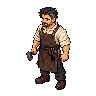
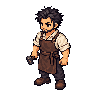
[art] 대장장이와 직장인의 머리·몸 비율을 기존 NPC에 맞춤
기존 NPC와 전체 높이는 같지만 머리/몸 비율이 달랐던 두 정지 그림을 보정. 기존 코르빈 체형 참조, 내장 imagegen2회 및 허용 Python 정리. 기존 원본13장/다른24PNG/머리합성9 SHA 보존.

검증: Godot4.7.1 격리 import2회 ERROR0, 전체875 로드실패0(기존 NUL4), GPU13385 실패0/SCRIPT ERROR0. 기존 성인3명과 실제 발/표시높이 및 이미지 체형 비교. 에셋FAIL0 WARN28(기존), docs_check0. 경제 하루27.0명/평균228 유지.

Changed region(s): [[0.25, 0.0625, 0.75, 0.9375]]

diff --git a/docs/그림_작업/받은그림/상태와_인물/픽셀_정리.py b/docs/그림_작업/받은그림/상태와_인물/픽셀_정리.py
@@ -83,8 +83,10 @@ REPORT['berry_pixels']=berry_pixels
 assert ready.getchannel('A').tobytes()==bush.getchannel('A').tobytes()
 
 actors = {}
-def actor_image(key, identity=None, kind='', back=False):
-    src=HERE/'생성_원본'/('actor_'+key+'.png')
+def actor_image(key, identity=None, kind='', back=False, corrected=True):
+    # 서 있는 신규 인물은 기존 NPC와 머리/몸 비율을 맞춘 선택본을 사용한다.
+    suffix='_proportions' if corrected and key in ['blacksmith','commuter'] else ''
+    src=HERE/'생성_원본'/('actor_'+key+suffix+'.png')
     image=Image.open(src).convert('RGBA')
     mask=image.getchannel('A').point(lambda a:255 if a>=220 else 0)
     image=image.crop(mask.getbbox())
@@ -126,6 +128,8 @@ for identity in ['blacksmith','commuter']:
     image=actor_image(identity)
     row=save(image,identity,'art/actors/poses/'+identity+'_south_west.png')
     actors[identity]={**row,'feet':[48,90],'direction':'south-west','reference_height':84,'display_height':1.14*.8660254,'pose':'standing'}
+    source=HERE/'생성_원본'/('actor_'+identity+'_proportions.png')
+    REPORT.setdefault('standing_proportions',[]).append({'id':identity,'bounds':list(image.getbbox()),'source':str(source.relative_to(HERE)).replace('\\','/'),'source_sha256':sha(source),'reference':'art/actors/npc/doyun/south_west.png','reference_sha256':sha(ROOT/'art/actors/npc/doyun/south_west.png')})
 
 for identity in ['player_male','player_female','doyun','naru','sora']:
     variants=[('seat',False)]
@@ -156,4 +160,20 @@ for index,row in enumerate(cards):
     label=row['id'].replace('_south_','\nsouth_').replace('_north_','\nnorth_')
     draw.multiline_text((index%4*224+8,index//4*320+276),label,font=font,fill=(240,220,190))
 sheet.save(HERE/'게임용_목록.png')
+
+# 같은 발 기준선에 기존 성인3명과 두 인물의 이전/보정 그림을 놓는다.
+# 캔버스/전체 높이 검사만으로는 얼굴 크기와 몸 비율의 차이를 잡을 수 없다.
+comparison=Image.new('RGB',(1000,690),(55,48,41))
+draw=ImageDraw.Draw(comparison)
+for index,name in enumerate(['doyun','naru','sora','blacksmith','commuter']):
+    is_new=name in ['blacksmith','commuter']
+    path=ROOT/('art/actors/poses/'+name+'_south_west.png' if is_new else 'art/actors/npc/'+name+'/south_west.png')
+    selected=Image.open(path).convert('RGBA')
+    prior=actor_image(name,corrected=False) if is_new else selected
+    for y,image,label in [(70,prior,'이전' if is_new else '기존'),(370,selected,'적용')]:
+        enlarged=image.resize((192,192),Image.Resampling.NEAREST)
+        comparison.paste(enlarged,(index*200,y),enlarged)
+        draw.text((index*200+8,y+215),name+' '+label,font=font,fill='white')
+for y in [250,550]: draw.line((0,y,1000,y),fill=(150,135,110))
+comparison.save(HERE/'비율_비교.png')
 print(f"runtime {len(cards)} PNG, preserved heads {len(REPORT['preserved_heads'])}, berry overlay {len(berry_pixels)} pixels")

diff --git a/docs/그림_작업/받은그림/상태와_인물/게임_연결.md b/docs/그림_작업/받은그림/상태와_인물/게임_연결.md
@@ -47,3 +47,14 @@ Godot4.7.1, 별도 가져오기 프로젝트·APPDATA에서 검사.
 ## 이후 남는 범위
 
 우물·낮은 담장의 기존 외형을 투명2D로 전환하는 작업, 남은 주민/손님의 좌식 및 새 개인 NPC 방향/걷기, 원정 몬스터·채집물/낚시 아이콘 후보 연결은 [남은 그림](../../마을_그림_연결/남은_그림.md) 참고. 이번 작업은 애니메이션 추가가 아니다.
+
+## 대장장이·직장인 비율 보정 (2026-10-11)
+
+사용자 지적으로 다시 비교했다. 이전 검사는 표시 경로·전체 높이·조명을 확인했지만 다른 NPC와 머리/몸 비율을 나란히 검토하지 못했다. 두 인물은 전체 키가 비슷해도 머리가 작고 다리가 길어 기존 개인 NPC와 외형 크기가 다르게 보였다.
+
+- 기존 코르빈(`doyun`)을 엄격한 체형/도트 밀도 기준으로 삼아 두 인물의 큰 머리·짧은 다리·작은 몸 비율을 보정했다. 망치/가죽 앞치마, 현대 재킷/서류 가방은 유지한다. 내장 `imagegen` 편집2회 후 허용된 Python 최근접 픽셀 정리로 기존 실행 경로의 PNG2장을 교체했다. 종횡비를 균일하게 유지하며 렌더러 높이를 늘이거나 줄이는 방식으로 체형을 고치지 않았다.
+- [이전/보정 비교](비율_비교.png)는 기존 NPC3명과 두 인물을 같은 발 기준선에 배치한다. 아래 행이 선택본이다. 96×96 캔버스, 실제 불투명 높이84px, 발(48,90), 기존 성인 렌더 높이를 공유한다. 몸폭은 직장인40px, 대장장이45px이며 앞치마·팔·가방 등 소품 차이를 포함한다.
+- 이전 생성 원본13장은 보존하고 `생성_원본/actor_blacksmith_proportions.png`, `actor_commuter_proportions.png`를 추가했다. 정확한 프롬프트·참조 경로/생성 시점 SHA·출처는 [생성 기록의 proportion_correction](생성_기록.json)에 있다. [픽셀 정리](픽셀_정리.py)를 재실행하면 같은 선택본·비교표가 재현된다.
+- 다른 실행 그림24장 및 좌식 원본 얼굴 합성9영역 SHA는 보정 전과 같다. 기존 개인 NPC10명, 공용 손님/직원/주인공 걷기 그림도 유지한다.
+- [실제 게임 비교](실행_확인/costumes.png)는 왼쪽부터 코르빈·타블렌·(기존 주인공)·이세르·대장장이·직장인이다. 기존 성인3명과 신규2명의 실제 Quad 높이 차이0.01 미만, 발 기준선 오차0.0001 미만을 검사하고 체형은 이미지로 확인했다. 조명12시/HUD6시 고정의 격리 검사 화면이다.
+- 최종 Godot4.7.1 가져오기2회 ERROR0, 전체875개 로드 실패0(기존 NUL 경고4), GPU13385 검사 실패0/SCRIPT ERROR0. 에셋 FAIL0/WARN28(기존), 경제 기준 하루27.0명·평균객단가228 유지. 이번 수정은 PNG2장·그림 메타/재현/비교 검사이며 게임 진행과 저장 구조는 변경하지 않았다.

diff --git a/.revvy/shared-memory.md b/.revvy/shared-memory.md
@@ -124,3 +124,5 @@ off.
 - 2026-10-11 Codex: 우물/낮은 담장 기존 외형 재확인. docs/그림_작업/틀/{village_well,low_wall}__preview.png에 288×288 모델 렌더 있음(잔디/지면 그림자 포함, 알파255). 삭제에서 복구한 동일 이름 PNG는2색 자리표라 별개. 미제작으로 단정하지 말고 기존 외형의 투명2D 전환 미완료로 분류. 받은그림·Git 외에도 틀/시트/모델을 대조한다. 목록/인수인계45 정정; 실행/지도 변경 없음.
 
 - 2026-10-11 Codex: 상태/인물26PNG 연결(단풍4·덤불2·대장장이/직장인2·남녀좌식12·쉼터주민3좌식6). NatureStateArt/ActorPoseArt, 머리9 원본합성·나무 실루엣/줄기보존; 기존8방향걷기유지. VillageRestPose는 대화동안만 벤치좌식·중단/완료/퇴장때위치/메타/물리복원·반전지원. 프롤로그 seat/floor 구분. 덤불ready/empty표시만연결, 직접수확/재생후속. GPU13375/공용1809/NPC164/프롤로그37/쉼터52/복구617/로드875 실패0·에셋FAIL0 WARN28. docs/그림_작업/받은그림/상태와_인물/게임_연결.md.
+
+- 2026-10-11 Codex: 사용자 대장장이/현대직장인 크기 지적→전체키보다 머리/몸 비율 차이 확인. 코르빈 엄격체형참조로 내장imagegen2회+허용Python 정리, 기존 PNG2만 교체·원본13/보정원본2 보존. 다른24PNG 및 얼굴합성9 SHA유지. 기존성인3과 발 기준선/실제높이 비교·체형 이미지검토, GPU13385/전체875 실패0·import2 ERROR0·에셋FAIL0 WARN28·경제불변. 비율_비교.png 및 게임_연결.md, 인수인계45 기록. 전체 캔버스/키 동일만으로 체형이 맞는다고 판단하지 않는다.
